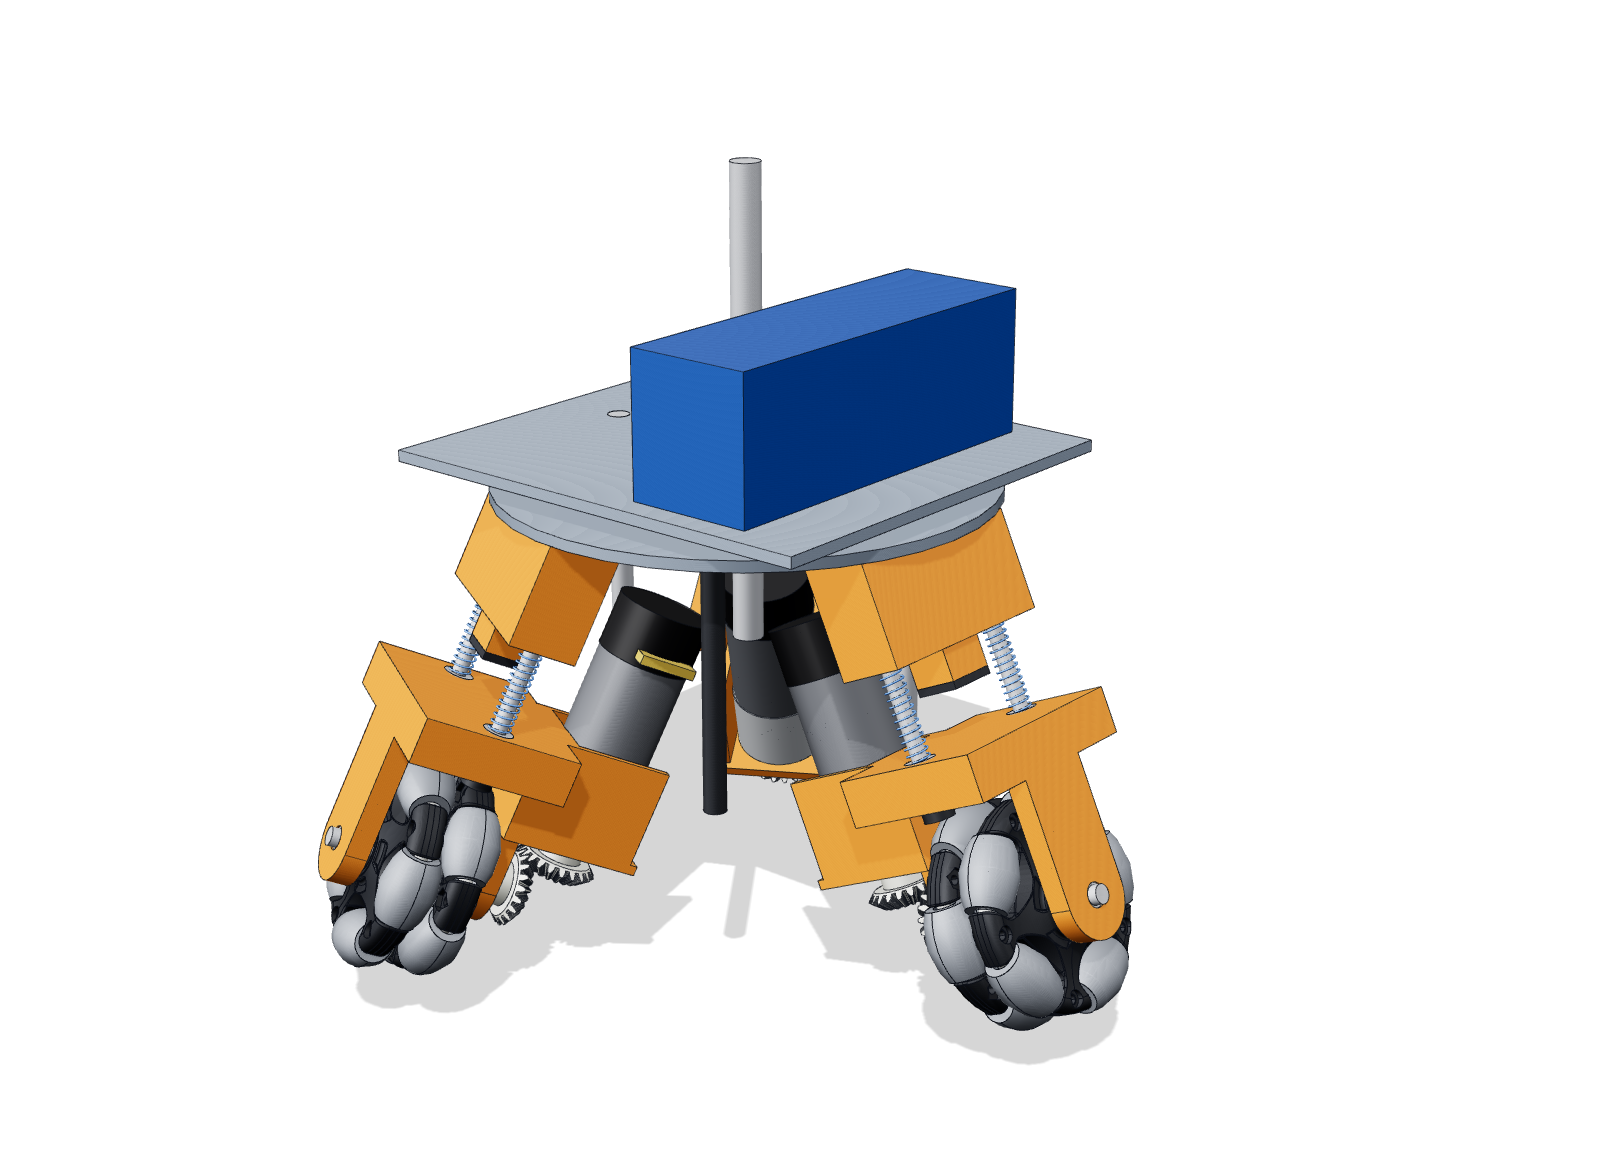
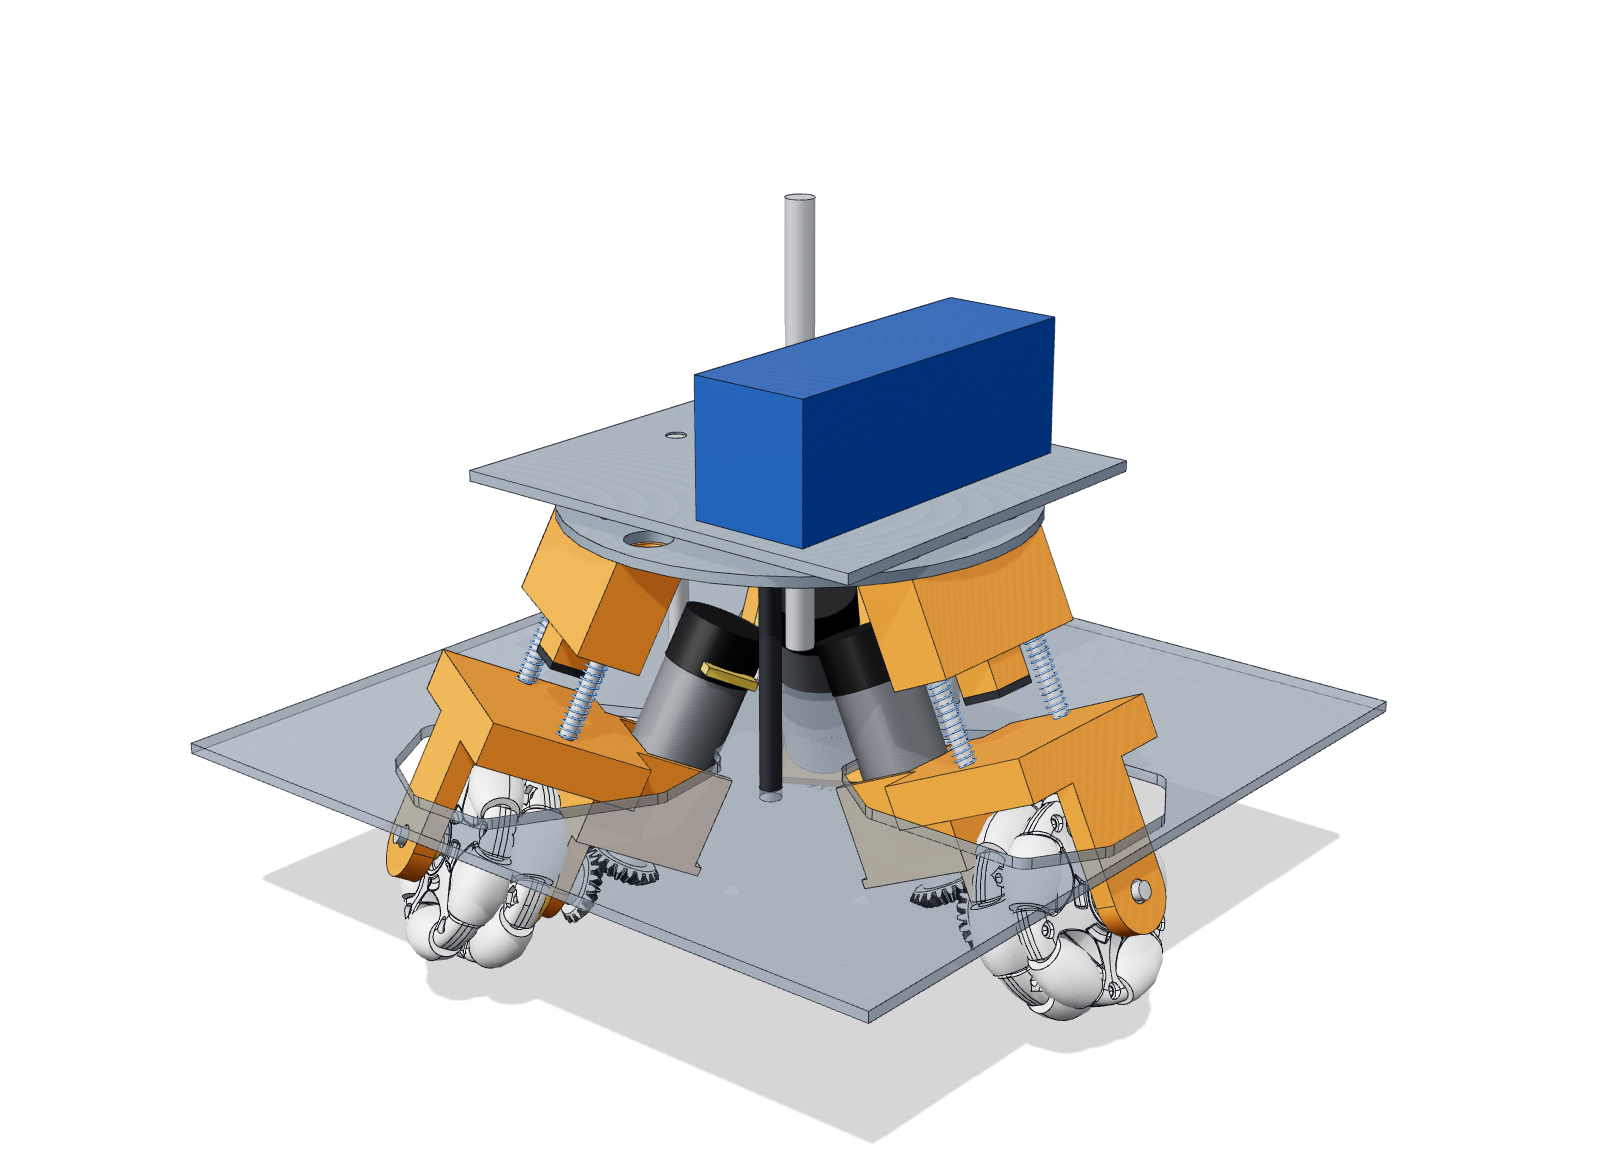
Part 3: mass roll-up from CAD, lighter base-plate windows, new renders (pod detail, in cage)
Claude-Session: https://claude.ai/code/session_01PJEeT7Gdcxkbohirc17xaT

Changed region(s): [[0.125, 0.1217, 0.875, 1.0]]

diff --git a/part3/analysis/mass_rollup.py b/part3/analysis/mass_rollup.py
@@ -1,0 +1,90 @@
+"""Step 4: mass roll-up from the CAD solids (volumes × assumed densities).
+
+Prints a table and writes docs/part3/generated/mass.md + mass.json.
+Printed parts: PETG 1.27 g/cm³ × 0.55 (walls + 25 % infill). Plates: 3 mm plywood 0.68.
+Vendor parts with a known catalogue mass use that instead of the model volume.
+"""
+import json
+import sys
+from pathlib import Path
+
+ROOT = Path(__file__).resolve().parents[2]
+sys.path.insert(0, str(ROOT))
+from build123d import Rot  # noqa: E402
+from droll import params as P  # noqa: E402
+from part3.cad import wheel_module as W  # noqa: E402
+
+OUT = ROOT / "docs" / "part3" / "generated"
+PRINT = 1.27 * 0.55
+DENS = {  # g/cm³
+    "carriage": PRINT, "tower": PRINT, "wheel flange": 1.27 * 0.8, "spacer": 1.27,
+    "wheel bevel gear": 1.27 * 0.8, "pinion bevel gear": 1.27 * 0.8, "LM6UU housing": PRINT,
+    "685ZZ": 7.85 * 0.75, "axle Ø5": 7.85, "rod Ø4": 7.85, "stop collar": 7.85, "LM4UU": 7.85 * 0.6,
+    "spring": 7.85, "bump pad": 1.2, "hub plate": 0.68, "battery shelf": 0.68, "base plate": 0.68,
+    "rod Ø6": 7.85, "carbon post Ø6": 1.6 * 0.45, "LM6UU": 7.85 * 0.6, "Tr8×1.5 flange nut": 8.5,
+}
+FIXED_G = {"gearmotor Pololu 4843": 100.0}   # catalogue (Pololu 25D HP + encoder)
+WHEEL_PLASTIC, WHEEL_RUBBER = 1.15, 1.25     # nylon/PP plates, TPR rollers
+
+
+def wheel_mass():
+    w = W.wheel_drilled()
+    g = 0.0
+    for s in w.solids():
+        v = s.volume / 1000
+        g += v * (WHEEL_RUBBER if abs(s.volume - 1698.3) < 5 else WHEEL_PLASTIC)
+    return g
+
+
+def main():
+    rows = {}
+
+    def add(label, grams, group):
+        k = (group, label)
+        rows[k] = rows.get(k, [0, 0.0])
+        rows[k][0] += 1
+        rows[k][1] += grams
+
+    wm = wheel_mass()
+    for az in P.WHEEL_AZIMUTHS:
+        moving, fixed = W.pod(0, 0)
+        for m in moving + fixed:
+            if "omni" in m.label:
+                add(m.label, wm, "pod (×3)")
+            elif m.label in FIXED_G:
+                add(m.label, FIXED_G[m.label], "pod (×3)")
+            else:
+                add(m.label, m.volume / 1000 * DENS[m.label], "pod (×3)")
+        t = W.tower_world(az, 0)
+        add("tower", t.volume / 1000 * DENS["tower"], "pod (×3)")
+        add("motor cable 6-wire + JST-PH", 5.0, "pod (×3)")
+        add("fasteners (M2.5/M3, set screws)", 6.0, "pod (×3)")
+    for h in [W.hub_plate(), W.nut()] + W.lm6_housings():
+        add(h.label, h.volume / 1000 * DENS[h.label], "lift")
+    for f in [W.shelf()] + W.guide_rods():
+        add(f.label, f.volume / 1000 * DENS[f.label], "fixed")
+    bp = 0.68 * (P.BOTTOM_SQUARE + 6) ** 2 * W.BASE_T / 1000 * 0.55     # ~45 % cut away by the pod windows
+    add("base plate (est., windows ~45 %)", bp, "fixed")
+
+    total = sum(v[1] for v in rows.values())
+    unsprung = sum(v[1] for (g, l), v in rows.items() if l in (
+        "omni wheel Nexus 14135", "gearmotor Pololu 4843", "carriage", "wheel flange", "spacer", "685ZZ",
+        "axle Ø5", "wheel bevel gear", "pinion bevel gear", "rod Ø4", "stop collar")) / 3
+    lines = ["# DRL-P3 mass roll-up (from CAD volumes)\n",
+             "| Group | Part | Qty | Total g |", "|---|---|---|---|"]
+    data = []
+    for (g, l), (n, gr) in sorted(rows.items(), key=lambda kv: (kv[0][0], -kv[1][1])):
+        lines.append(f"| {g} | {l} | {n} | {gr:.0f} |")
+        data.append(dict(group=g, part=l, qty=n, grams=round(gr, 1)))
+    lines += [f"| | **Total** | | **{total:.0f}** |", "",
+              f"Unsprung mass per pod (moves with the carriage): **{unsprung:.0f} g**.",
+              f"Omni-wheel (from vendor STEP volume): {wm:.0f} g each. Motor: catalogue 100 g.",
+              "Densities: PETG prints 1.27 × 0.55 (gears, flange 0.8), steel 7.85, plywood 0.68."]
+    (OUT / "mass.md").write_text("\n".join(lines) + "\n")
+    (OUT / "mass.json").write_text(json.dumps(dict(total_g=round(total), unsprung_per_pod_g=round(unsprung),
+                                                   wheel_g=round(wm, 1), rows=data), indent=1))
+    print("\n".join(lines))
+
+
+if __name__ == "__main__":
+    main()

diff --git a/part3/cad/wheel_module.py b/part3/cad/wheel_module.py
@@ -489,19 +489,30 @@ if __name__ == "__main__":
                   spring_loaded_len=SPRING_LOADED_L, tower_z0=TOWER_Z0, rod_len=ROD_TOP - BRIDGE_Z0 - 0.5)
     print(json.dumps(report, indent=1, default=float))
     states = {}
-    for lift in (0.0, P.LIFT_STROKE):
+    for lift in ([] if "--plate-only" in sys.argv else (0.0, P.LIFT_STROKE)):
         parts, ctx, pw = assembly(lift)
         states[lift] = pw
         tag = "rolling" if lift == 0 else "lifted"
         export(f"p3_assembly_{tag}", parts)
         print(tag, "exported", round(time.time() - t0, 1), "s")
-    # base plate from both states (+ bump: carriage up by BUMP in the rolling state)
-    by_az = {az: states[0.0][az] + states[P.LIFT_STROKE][az] for az in P.WHEEL_AZIMUTHS}
+    # base plate windows from light envelopes (wheel as a Ø61 × 28 cylinder, no springs) in
+    # rolling, bump and lifted states — the full vendor meshes run out of memory here
+    def envelopes(az, lift, bump):
+        mv, fx = pod(lift, bump)
+        dz = -STATIC_DEFL if lift > 0 else bump
+        out = [Pos(0, 0, dz) * ycyl(30.5, -14, 14)]
+        out += [m for m in mv + fx if "omni" not in m.label and m.label != "spring"]
+        return [to_world(o, az, lift) for o in out] + [tower_world(az, lift)]
+    by_az = {az: envelopes(az, 0, 0) + envelopes(az, 0, BUMP) + envelopes(az, P.LIFT_STROKE, 0)
+             for az in P.WHEEL_AZIMUTHS}
     bp = base_plate(by_az)
     export("p3_base_plate", [bp])
     ctx = [cage_struts(), props(), shell_lower()]
     export("p3_context_cage", [cage_struts()])
     export("p3_context_props", [props()])
     export("p3_context_shell", [shell_lower()])
-    export_step(bp, str(OUT / "p3_base_plate.step"))
+    try:                                                    # STEP files are a step-5 deliverable
+        export_step(bp, str(OUT / "p3_base_plate.step"))
+    except RuntimeError as e:
+        print("base plate STEP not written:", e, "valid:", bp.is_valid)
     print("done", round(time.time() - t0, 1), "s")
